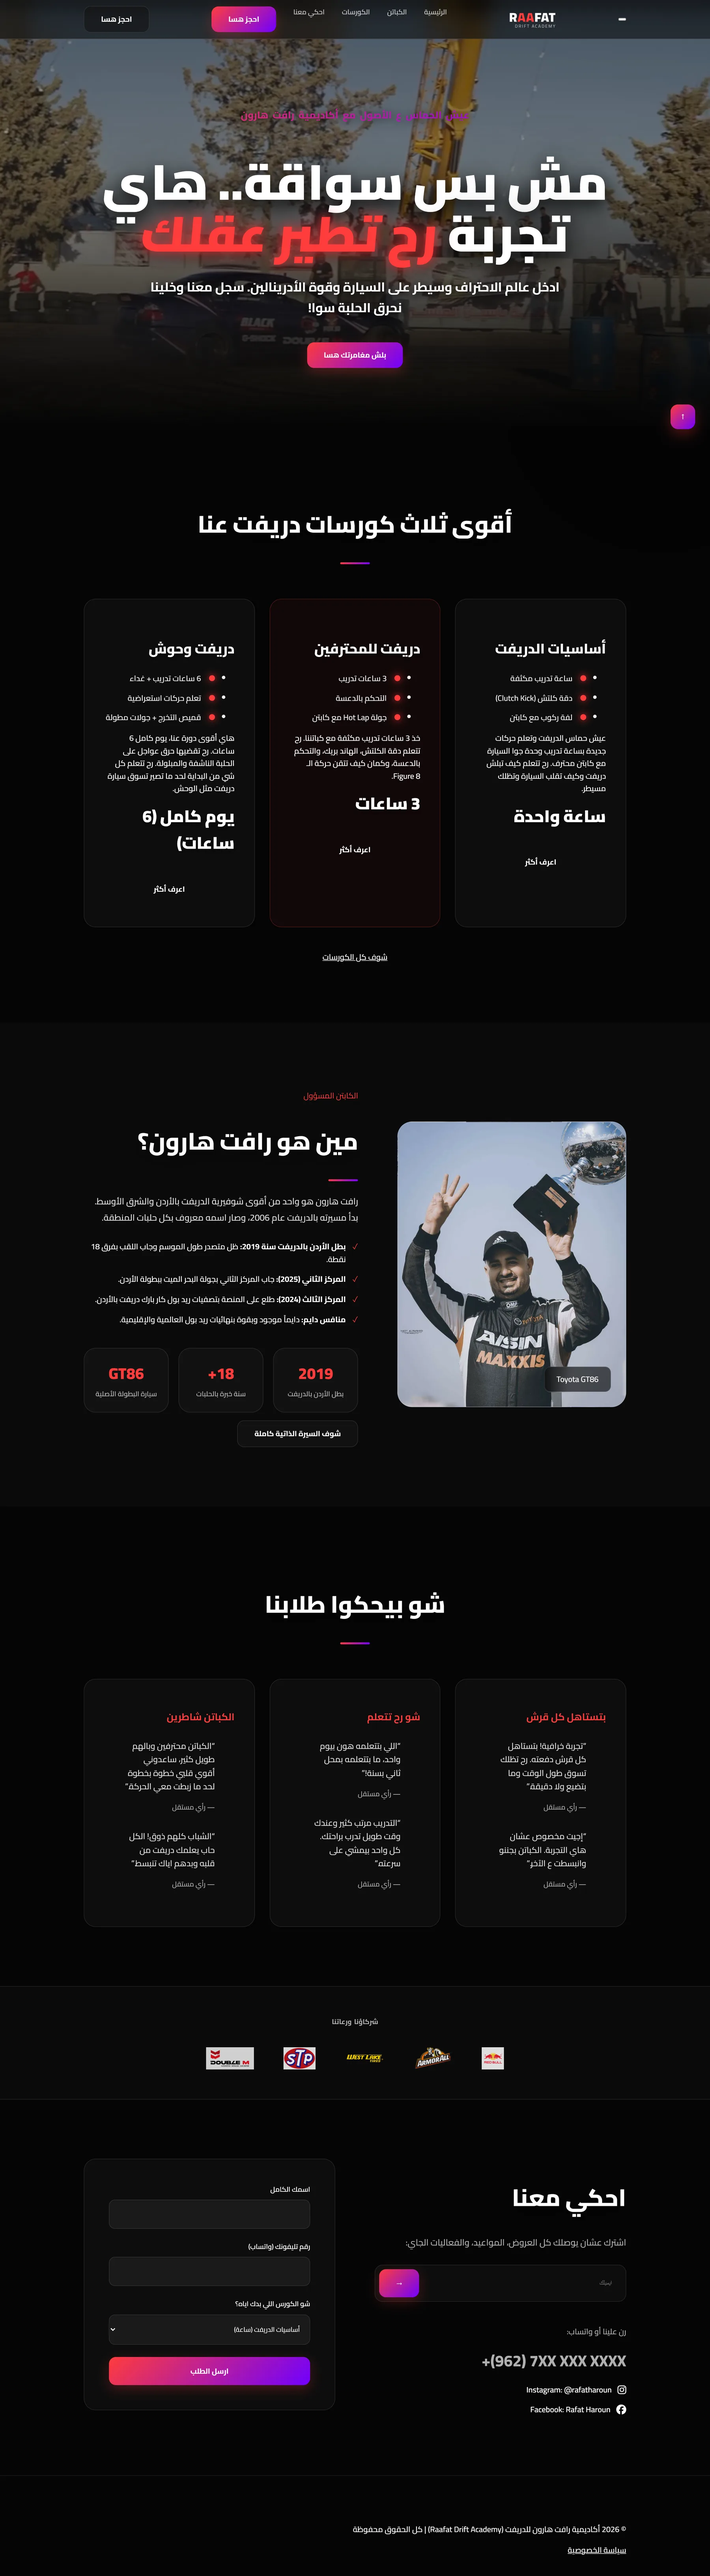
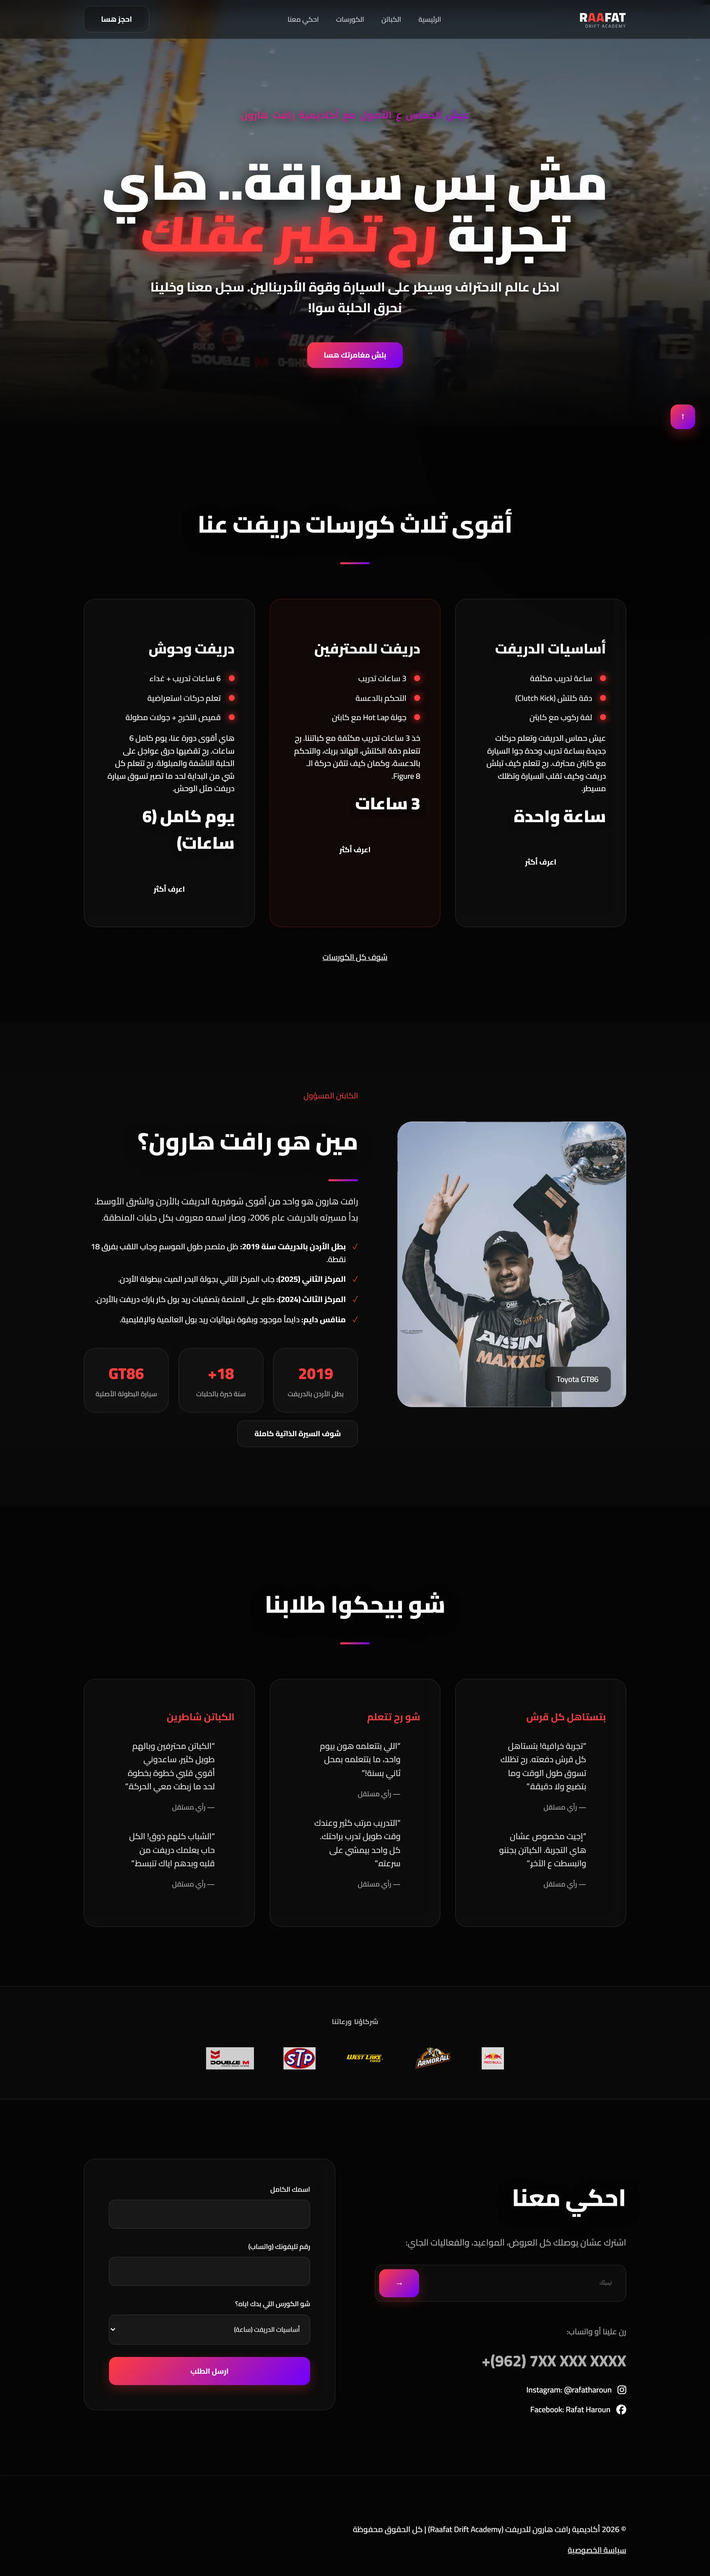
feat: update project assets and refine homepage components
Replaced outdated images for the Heartfelt Code project, introducing new desktop and mobile assets to enhance visual representation. Removed obsolete files and updated project descriptions in the curation and voice data files for clarity and relevance. Adjusted the homepage layout by removing the storeroom section and refining the SiteHeader for a cleaner navigation experience.

diff --git a/src/components/HomeSections.tsx b/src/components/HomeSections.tsx
@@ -4,7 +4,7 @@ import { WallLabel } from '@/components/WallLabel';
 import { WorkArt } from '@/components/WorkArt';
 import { IndexCard } from '@/components/IndexCard';
 import { NameCard } from '@/components/NameCard';
-import { backends, catalogueNumber, hangFor, rooms, storeroom, type Hang } from '@/lib/works';
+import { backends, hangFor, rooms, type Hang } from '@/lib/works';
 import { chronology, contact, skills } from '@/data/artist';
 
 /**
@@ -22,7 +22,7 @@ function placeFeatured() {
   return placement;
 }
 
-/** Everything below the hero: the rooms, the storeroom, about, contact and the footer. */
+/** Everything below the hero: the rooms, about, contact and the footer. */
 export function HomeSections() {
   const placement = placeFeatured();
   return (
@@ -72,41 +72,6 @@ export function HomeSections() {
           </section>
         ))}
       </div>
-
-      {storeroom.length > 0 && (
-        <section id="storeroom" className="storeroom" aria-labelledby="h-store">
-          <div className="wrap">
-            <span className="eyebrow">Experiments</span>
-            <h2 id="h-store">Experiments and early work</h2>
-            <p className="lede">
-              Prototypes and starters where I tried out new tools and ideas before using them on client work. Each
-              one runs as a demo.
-            </p>
-            <div className="crates">
-              {storeroom.map((w) => {
-                const thumb = w.shots.find((s) => s.kind === 'desktop') ?? w.shots[0];
-                return (
-                  <Link key={w.slug} href={`/work/${w.slug}/`} className="crate">
-                    <div className="thumb">{thumb && <img src={thumb.src} alt="" loading="lazy" />}</div>
-                    <div className="body">
-                      <span className="stamp">
-                        {catalogueNumber(w.slug)} · {w.years}
-                      </span>
-                      <h3>{w.title}</h3>
-                      <p>{w.tagline}</p>
-                      {process.env.NODE_ENV === 'development' && w.polishNote && (
-                        <p style={{ marginTop: 8, fontStyle: 'italic' }} title="Dev only: builder's condition note">
-                          {w.polishScore}/5 · {w.polishNote}
-                        </p>
-                      )}
-                    </div>
-                  </Link>
-                );
-              })}
-            </div>
-          </div>
-        </section>
-      )}
 
       <section id="about" className="chron" aria-labelledby="h-about">
         <div className="wrap">

diff --git a/src/app/globals.css b/src/app/globals.css
@@ -212,10 +212,11 @@ main,
     font-size: 17px;
   }
 }
+/* Set like the hero signature: at regular weight the Kufi reads as a struck-through line at this size. */
 .mark span {
-  font-size: 18px;
-  line-height: 1;
-  color: var(--muted);
+  align-self: center;
+  font: 600 18px/1 var(--f-kufi), sans-serif;
+  color: var(--accent-text);
 }
 .nav {
   display: flex;
@@ -938,68 +939,6 @@ main,
   }
 }
 
-/* ───────────── Storeroom ───────────── */
-.storeroom {
-  padding-block: clamp(56px, 9vw, 120px);
-  border-top: 1px dashed var(--rule);
-  background:
-    repeating-linear-gradient(90deg, transparent 0 79px, color-mix(in srgb, var(--rule) 45%, transparent) 79px 80px),
-    var(--wall-2);
-}
-.storeroom h2 {
-  margin: 0;
-  font: 400 clamp(30px, 4.4vw, 60px) / 1 var(--f-display);
-}
-.storeroom .lede {
-  max-width: 60ch;
-  color: var(--muted);
-  margin: 12px 0 40px;
-}
-.crates {
-  display: grid;
-  grid-template-columns: repeat(auto-fill, minmax(240px, 1fr));
-  gap: 18px;
-}
-.crate {
-  display: grid;
-  grid-template-rows: auto 1fr;
-  background: var(--plinth);
-  border: 1px solid var(--rule);
-  text-decoration: none;
-  transition: transform 0.3s var(--ease), border-color 0.3s;
-}
-.crate:hover {
-  transform: translateY(-3px);
-  border-color: var(--ink);
-}
-.crate .thumb {
-  aspect-ratio: 16 / 10;
-  overflow: hidden;
-  background: var(--wall-2);
-  filter: grayscale(0.85) contrast(0.95);
-  transition: filter 0.4s;
-}
-.crate:hover .thumb {
-  filter: none;
-}
-.crate .thumb img {
-  width: 100%;
-  height: 100%;
-  object-fit: cover;
-  object-position: top;
-}
-.crate .body {
-  padding: 14px 16px 16px;
-}
-.crate h3 {
-  margin: 4px 0 6px;
-  font: italic 400 20px/1.15 var(--f-display);
-}
-.crate p {
-  margin: 0;
-  font-size: 13px;
-  color: var(--muted);
-}
 .stamp {
   display: inline-block;
   font: 500 10px/1 var(--f-mono);
@@ -1011,9 +950,13 @@ main,
 }
 
 /* ───────────── Chronology ───────────── */
+/* The ruled wall that used to sit behind the Experiments section, so About still reads as a change of room. */
 .chron {
   padding-block: clamp(56px, 9vw, 120px);
   border-top: 1px solid var(--rule);
+  background:
+    repeating-linear-gradient(90deg, transparent 0 79px, color-mix(in srgb, var(--rule) 45%, transparent) 79px 80px),
+    var(--wall-2);
 }
 .chron-grid {
   display: grid;

diff --git a/src/app/work/[slug]/page.tsx b/src/app/work/[slug]/page.tsx
@@ -4,7 +4,7 @@ import { notFound } from 'next/navigation';
 import { Reveal } from '@/components/Reveal';
 import { ShotStrip, type StripItem } from '@/components/ShotStrip';
 import { languages } from '@/components/WallLabel';
-import { allWorks, catalogueNumber, demoHref, getWork, liveLinks, neighbours, type Shot } from '@/lib/works';
+import { allWorks, catalogueNumber, demoHref, getWork, leadShot, liveLinks, neighbours, type Shot } from '@/lib/works';
 
 export const dynamicParams = false;
 
@@ -42,7 +42,9 @@ export default async function WorkPage({ params }: { params: Promise<{ slug: str
         })
       : stripItems(work.title, mobile);
   const isFullPage = (s: Shot) => !!s.width && !!s.height && s.height / s.width > 0.8;
-  const leadDesk = phoneLed ? undefined : (desktop.find((s) => !isFullPage(s)) ?? desktop[0]);
+  const leadDesk = phoneLed
+    ? undefined
+    : (leadShot(work) ?? desktop.find((s) => !isFullPage(s)) ?? desktop[0]);
   // A full-page capture is cropped in the lead, so it still appears whole further down.
   const galleryDesktop = desktop.filter((s) => s !== leadDesk || isFullPage(s));
   const galleryShots = phoneLed ? galleryDesktop : [...mobile, ...galleryDesktop];

diff --git a/src/lib/works.ts b/src/lib/works.ts
@@ -152,6 +152,14 @@ export function hangFor(w: Work): Hang | null {
   return { layout: c.layout, wide: c.layout === 'bento' || !!c.wide, side: c.side ?? 'end', pieces };
 }
 
+const leadConfig = (curation as { lead?: Record<string, string> }).lead ?? {};
+
+/** The hand-picked screen a project page opens with, if any. */
+export function leadShot(w: Work): Shot | undefined {
+  const name = leadConfig[w.slug];
+  return name ? w.shots.find((s) => s.src.split('/').pop()?.startsWith(name)) : undefined;
+}
+
 export type LiveLink = { label: string; href: string };
 const liveLinkMap = (curation as { liveLinks?: Record<string, LiveLink[]> }).liveLinks ?? {};
 

diff --git a/src/components/SiteHeader.tsx b/src/components/SiteHeader.tsx
@@ -19,7 +19,6 @@ export function SiteHeader() {
         </Link>
         <nav className="nav" aria-label="Sections">
           <Link href="/#rooms">Work</Link>
-          <Link href="/#storeroom" className="hide-sm">Experiments</Link>
           <Link href="/#about" className="hide-sm">About</Link>
           <Link href="/#contact">Contact</Link>
           <ThemeButton />
